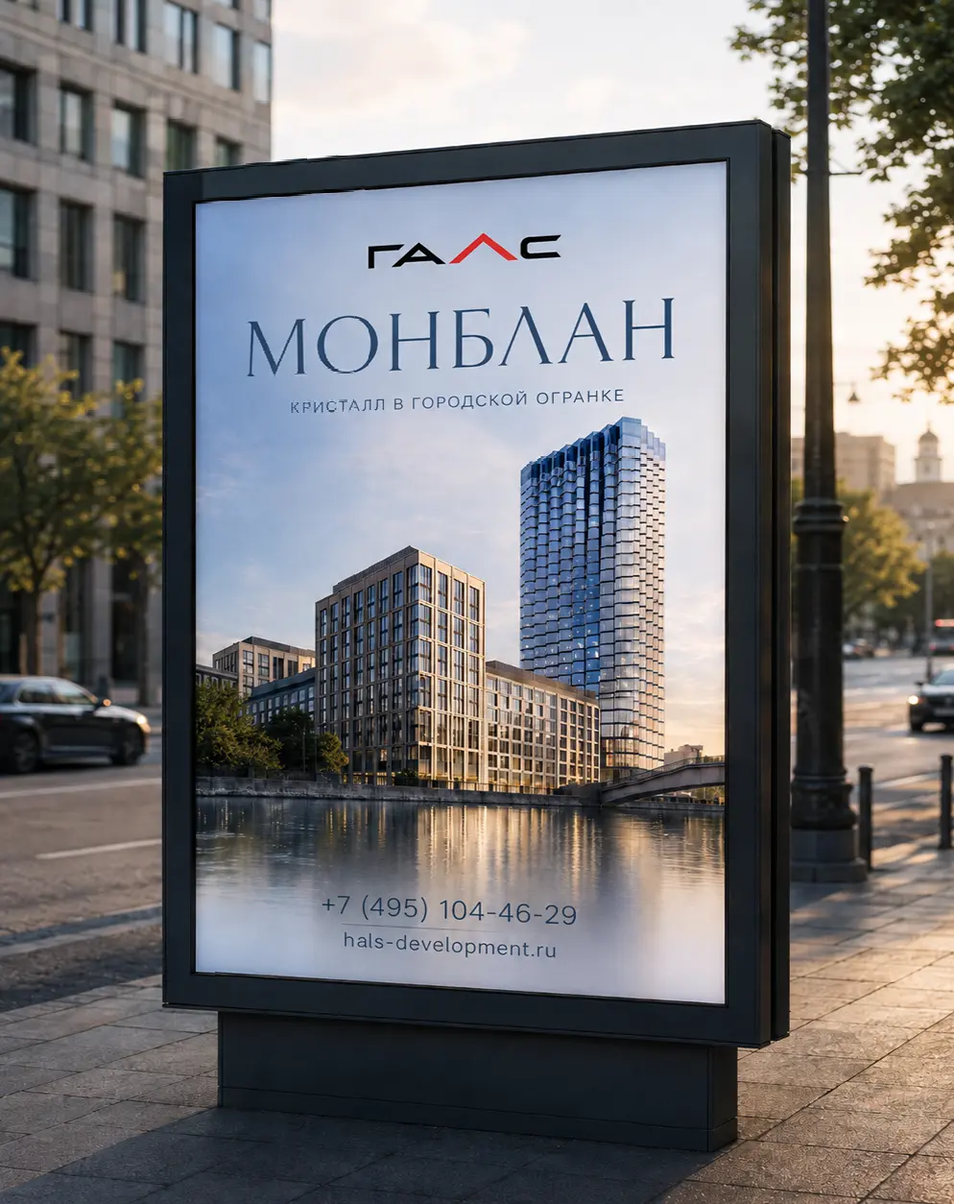
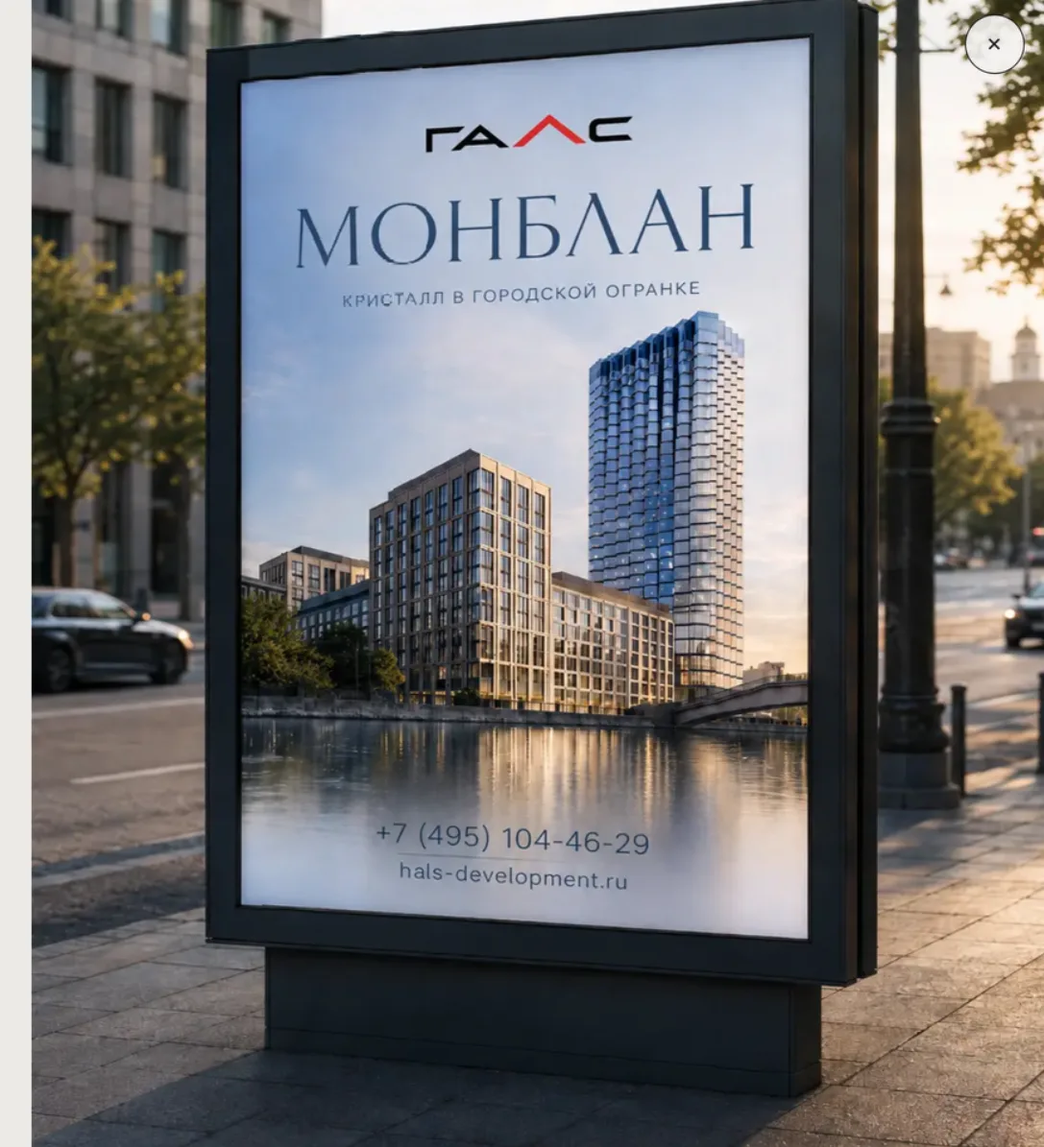
Add files via upload

diff --git a/index.html b/index.html
@@ -369,6 +369,13 @@
       .catalog-title-screen { grid-template-columns:1fr; }
     }
 
+
+    .portal-card button { position:relative; }
+    .portal-card .card-hover { position:absolute; inset:0; opacity:0; }
+    .portal-card:hover .card-base,
+    .portal-card:focus-within .card-base { opacity:0; }
+    .portal-card:hover .card-hover,
+    .portal-card:focus-within .card-hover { opacity:1; }
 </style>
 </head>
 <body>
@@ -377,7 +384,7 @@
 <section aria-label="Вступление" class="hero"><div class="hero-stage"><div class="word-frame active"><h1>СОЗДАЮ <span>ВИЗУАЛЬНЫЕ</span><br/>ИСТОРИИ</h1></div><div class="word-frame"><h1>АРТ-ДИРЕКШН <span>РЕТУШЬ</span><br/>ФОТО</h1></div><div class="word-frame"><h1>ОТ ИДЕИ <span>ДО</span> ОБРАЗА</h1></div><div class="word-frame"><h1>ДИЗАЙН <span>С ХАРАКТЕРОМ</span></h1></div><div class="hero-note"><span>Листайте вниз</span><span>01 — 04</span></div></div></section>
 <section class="statement"><div><div class="label">01 / Подход</div><div aria-hidden="true" class="approach-orbits"><span></span><span></span><span></span></div></div><div><h2>Каждый проект начинается с идеи, а заканчивается образом, который остаётся в памяти.</h2><p>Я соединяю арт-дирекшн, графический дизайн и работу с фотографией,<br/>чтобы визуальная коммуникация выглядела цельно — в журнале, рекламе, digital и пространстве.</p></div></section>
 <section class="projects portfolio-light" id="projects"><div class="projects-head"><div><div class="label">02 / Selected work</div><h2>Works</h2></div><div class="label">Москва · 2020—2026</div></div>
-<div class="portal-grid"><article class="portal-card"><button aria-label="REAL FLAME" class="open-case" data-open-case="realflame-master" type="button"><img alt="Real Flame — айдентика, каталог, упаковка и пространство" decoding="async" loading="lazy" src="rf-merch-cover.webp"/><div class="portal-copy"><span>01 / Brand world</span><h3>REAL FLAME</h3></div></button></article><article class="portal-card"><button aria-label="Development" class="open-case" data-open-case="development" type="button"><img alt="Development — наружная реклама, презентации и коммуникации для девелопмента" decoding="async" loading="lazy" src="development-card-clean.png"/><div class="portal-copy"><span>02 / Development</span><h3>Development</h3></div></button></article><article class="portal-card"><button aria-label="Catalog" class="open-case" data-open-case="catalog" type="button"><img alt="Каталог светильников Lunera" decoding="async" loading="lazy" src="catalog-cover-new.png"/><div class="portal-copy"><span>03 / Editorial</span><h3>Catalog</h3></div></button></article><article class="portal-card"><button aria-label="ВТБ" class="open-case" data-open-case="vtb" type="button"><img alt="Кампания ВТБ. Семейная ипотека" decoding="async" loading="lazy" src="vtb-print-new.png"/><div class="portal-copy"><span>04 / Finance</span><h3>ВТБ</h3></div></button></article><article class="portal-card"><button aria-label="Журналы" class="open-case" data-open-case="editorial" type="button"><img alt="Журнальный и редакционный дизайн" decoding="async" loading="lazy" src="mag-cosmo-cover.png"/><div class="portal-copy"><span>05 / Editorial design</span><h3>Журналы</h3></div></button></article><article class="portal-card"><button aria-label="Газеты" class="open-case" data-open-case="newspapers" type="button"><img alt="Газетная и редакционная вёрстка" decoding="async" loading="lazy" src="newspapers-cover.webp"/><div class="portal-copy"><span>06 / Print design</span><h3>Газеты</h3></div></button></article><article class="portal-card"><button aria-label="Презентации" class="open-case" data-open-case="presentation" type="button"><img alt="Дизайн презентаций" decoding="async" loading="lazy" src="pres-01.webp"/><div class="portal-copy"><span>07 / Presentation design</span><h3>Презентации</h3></div></button></article><article class="portal-card"><button aria-label="Карточки товара" class="open-case" data-open-case="product-cards" type="button"><img alt="Карточки товара и коммерческие макеты" decoding="async" loading="lazy" src="campaign.webp"/><div class="portal-copy"><span>08 / E-commerce</span><h3>Карточки товара</h3></div></button></article><article class="portal-card"><button aria-label="Упаковка" class="open-case" data-open-case="packaging" type="button"><img alt="Дизайн упаковки" decoding="async" loading="lazy" src="rf-packaging.webp"/><div class="portal-copy"><span>09 / Packaging design</span><h3>Упаковка</h3></div></button></article></div>
+<div class="portal-grid"><article class="portal-card"><button aria-label="REAL FLAME" class="open-case" data-open-case="realflame-master" type="button"><img alt="Real Flame — айдентика, каталог, упаковка и пространство" decoding="async" loading="lazy" src="rf-merch-cover.webp"/><div class="portal-copy"><span>01 / Brand world</span><h3>REAL FLAME</h3></div></button></article><article class="portal-card"><button aria-label="Development" class="open-case" data-open-case="development" type="button"><img alt="Development — наружная реклама, презентации и коммуникации для девелопмента" decoding="async" loading="lazy" src="development-card-clean.webp"/><div class="portal-copy"><span>02 / Development</span><h3>Development</h3></div></button></article><article class="portal-card"><button aria-label="Catalog" class="open-case" data-open-case="catalog" type="button"><img alt="Каталог светильников Lunera" class="card-base" decoding="async" loading="lazy" src="catalog-main-2026.webp"/><img alt="Каталог Lunera и разворот" class="card-hover" decoding="async" loading="lazy" src="catalog-hover-2026.webp"/><div class="portal-copy"><span>03 / Editorial</span><h3>Catalog</h3></div></button></article><article class="portal-card"><button aria-label="ВТБ" class="open-case" data-open-case="vtb" type="button"><img alt="Кампания ВТБ. Семейная ипотека" decoding="async" loading="lazy" src="vtb-print-new.webp"/><div class="portal-copy"><span>04 / Finance</span><h3>ВТБ</h3></div></button></article><article class="portal-card"><button aria-label="Журналы" class="open-case" data-open-case="editorial" type="button"><img alt="Журнальный и редакционный дизайн" decoding="async" loading="lazy" src="mag-cosmo-cover.webp"/><div class="portal-copy"><span>05 / Editorial design</span><h3>Журналы</h3></div></button></article><article class="portal-card"><button aria-label="Газеты" class="open-case" data-open-case="newspapers" type="button"><img alt="Газетная полоса Центр+" decoding="async" loading="lazy" src="newspaper-main.webp"/><div class="portal-copy"><span>06 / Print design</span><h3>Газеты</h3></div></button></article><article class="portal-card"><button aria-label="Презентации" class="open-case" data-open-case="presentation" type="button"><img alt="Презентация для Джилекс" decoding="async" loading="lazy" src="presentation-djileks.webp"/><div class="portal-copy"><span>07 / Presentation design</span><h3>Презентации</h3></div></button></article><article class="portal-card"><button aria-label="Карточки товара" class="open-case" data-open-case="product-cards" type="button"><img alt="Карточка товара Minty Home" decoding="async" loading="lazy" src="product-card-minty.webp"/><div class="portal-copy"><span>08 / E-commerce</span><h3>Карточки товара</h3></div></button></article><article class="portal-card"><button aria-label="Упаковка" class="open-case" data-open-case="packaging" type="button"><img alt="Дизайн упаковки" decoding="async" loading="lazy" src="rf-packaging.webp"/><div class="portal-copy"><span>09 / Packaging design</span><h3>Упаковка</h3></div></button></article></div>
 </section>
 <section class="process"><div><div class="label">03 / Возможности</div><h2>От первого референса до готового визуального мира.</h2></div><div class="services"><div class="service"><span>01</span><strong>Арт-дирекшн и визуальные концепции</strong><small>Идея</small></div><div class="service"><span>02</span><strong>Графический и редакционный дизайн</strong><small>Дизайн</small></div><div class="service"><span>03</span><strong>Ретушь и подготовка изображений</strong><small>Постпродакшн</small></div><div class="service"><span>04</span><strong>Фотосъёмка и организация продакшна</strong><small>Фото</small></div></div></section>
 <section class="about" id="about"><img alt="Графическая работа с лабиринтом" decoding="async" loading="lazy" src="about-maze.webp"/><div class="about-copy"><div><div class="label">04 / Обо мне</div><h2>Визуал, у которого есть характер.</h2><p>Я — графический дизайнер, фотограф и ретушер из Москвы. Работала с глянцевыми изданиями, рекламными материалами, брендами и визуализацией пространств.</p><p>Люблю точную композицию, выразительную типографику и решения, которые не становятся «просто красивыми картинками».</p></div><div class="label">Открыта к проектам и сотрудничеству</div></div></section>
@@ -393,39 +400,36 @@
 <div class="mega-end"><h3>Один бренд — единый визуальный мир.</h3><div><span>Real Flame</span><span>Каталог · Мерч · Упаковка · Пространство</span></div></div>
 </section>
 <section aria-label="Development и рекламные кампании" class="case-study mega-case" id="development-case"><button aria-label="Закрыть кейс" class="case-close">×</button>
-<div class="mega-hero"><img alt="Ситиборд Монблан" decoding="async" loading="lazy" src="outdoor-citylight.png"/><div class="mega-hero-copy"><div class="case-number">02 / Advertising systems</div><h2>Development</h2><p>Архитектура, недвижимость и финансовые продукты: визуальные концепции, которые сохраняют характер в наружной рекламе, digital, презентациях и коммуникационных материалах.</p></div></div>
-<div class="story-row light"><div class="story-text"><div class="label">01 / Монблан</div><h3><span class="pink">Архитектура</span> как главный рекламный образ</h3><p>Галс — застройщик и девелопер, который формирует новые городские пространства, соединяя архитектурную выразительность, функциональность и высокий уровень проекта.</p></div><div class="story-media clean-frame paper"><img alt="Ситиборд Монблан" decoding="async" loading="lazy" src="outdoor-citylight.png"/></div></div>
+<div class="mega-hero"><img alt="Ситиборд Монблан" decoding="async" loading="lazy" src="outdoor-citylight.webp"/><div class="mega-hero-copy"><div class="case-number">02 / Advertising systems</div><h2>Development</h2><p>Архитектура, недвижимость и финансовые продукты: визуальные концепции, которые сохраняют характер в наружной рекламе, digital, презентациях и коммуникационных материалах.</p></div></div>
+<div class="story-row light"><div class="story-text"><div class="label">01 / Монблан</div><h3><span class="pink">Архитектура</span> как главный рекламный образ</h3><p>Галс — застройщик и девелопер, который формирует новые городские пространства, соединяя архитектурную выразительность, функциональность и высокий уровень проекта.</p></div><div class="story-media clean-frame paper"><img alt="Ситиборд Монблан" decoding="async" loading="lazy" src="outdoor-citylight.webp"/></div></div>
 <div class="story-row advertising-row"><div class="story-text"><div class="label">02 / KV</div><h3><span class="pink">Рекламные</span> макеты</h3><p>Разработка и адаптация KV (Key Visual) для разных каналов: POS-материалы, полиграфия и digital-баннеры.</p></div><div aria-label="Наведите, чтобы увидеть второй рекламный макет" class="story-media hover-swap editorial-swap clean-frame dark-surface" tabindex="0"><img alt="Рекламные макеты жилого комплекса Монблан" class="hover-base" decoding="async" loading="lazy" src="ad-monblanc-clean.webp"/><img alt="Рекламный макет проекта Адмирал" class="hover-alt" decoding="async" loading="lazy" src="ad-admiral.webp"/></div></div>
-<div class="story-row light dev-prime-row"><div class="story-text"><div class="label">03 / Презентации</div><h3><span class="pink">От планировки</span><span class="line-gap">до инвестиционной истории</span></h3><p>Проект Prime на Динамо получает чёткую информационную архитектуру и премиальную визуальную подачу. Материал выстроен так, чтобы путь от исходных данных до ценности проекта считывался быстро и убедительно.</p></div><div class="story-media clean-frame paper"><img alt="Prime на Динамо" decoding="async" loading="lazy" src="dev-prime-large.png"/></div></div>
+<div class="story-row light dev-prime-row"><div class="story-text"><div class="label">03 / Презентации</div><h3><span class="pink">От планировки</span><span class="line-gap">до инвестиционной истории</span></h3><p>Проект Prime на Динамо получает чёткую информационную архитектуру и премиальную визуальную подачу. Материал выстроен так, чтобы путь от исходных данных до ценности проекта считывался быстро и убедительно.</p></div><div class="story-media clean-frame paper"><img alt="Prime на Динамо" decoding="async" loading="lazy" src="dev-prime-large.webp"/></div></div>
 <div class="story-row"><div class="story-text"><div class="label">04 / Жилые проекты</div><h3><span class="pink">Продукт</span> через атмосферу будущей жизни</h3><p>Коммуникация AFI соединяет архитектурный масштаб, городскую среду и понятные преимущества проекта. На первом экране работает эмоциональный образ, а при наведении раскрываются дополнительные сценарии и разные грани продукта.</p></div><div aria-label="Наведите, чтобы увидеть дополнительные визуалы AFI" class="story-media hover-cycle full-bleed dark-surface afi-cycle" tabindex="0"><img alt="Архитектура будущего — уже сегодня" class="cycle-a" decoding="async" loading="lazy" src="afi-main.webp"/><img alt="AFI Tower" class="cycle-b" decoding="async" loading="lazy" src="afi-hover-01.webp"/><img alt="AFI tower в городской среде" class="cycle-c" decoding="async" loading="lazy" src="afi-hover-02.webp"/></div></div>
 <div class="mega-end"><h3><span class="pink">Архитектура,</span> данные и эмоция в одной системе.</h3><div><span>Development &amp; Advertising</span><span>Outdoor · Digital · Presentations</span></div></div>
 </section>
 <section aria-label="Журнальный дизайн" class="case-study mega-case" id="editorial-case"><button aria-label="Закрыть кейс" class="case-close">×</button>
-<div class="mega-hero"><img alt="Обложка Cosmopolitan" decoding="async" loading="lazy" src="mag-cosmo-cover.png"/><div class="mega-hero-copy"><div class="case-number">05 / Editorial design</div><h2>Журналы</h2><p>Вёрстка глянцевых изданий — это работа с ритмом, типографикой и образом. В этом разделе собраны проекты для Cosmopolitan, Wedding и TopBeauty.</p></div></div>
-<div class="story-row light magazine-pair"><div class="story-text"><div class="label">01 / Cosmopolitan</div><h3><span class="pink">Глянцевая</span> вёрстка для массового журнала</h3><p>Опыт работы с журналом Cosmopolitan научил меня быстро собирать яркую, читаемую и коммерчески точную полосу. Внутри одного номера важно удержать баланс между громкой обложкой, рекламой и редакционным контентом.</p></div><div aria-label="Наведите, чтобы увидеть разворот Cosmopolitan" class="story-media hover-swap clean-frame paper" tabindex="0"><img alt="Обложка Cosmopolitan" class="hover-base" decoding="async" loading="lazy" src="mag-cosmo-cover.png"/><img alt="Разворот Cosmopolitan" class="hover-alt" decoding="async" loading="lazy" src="mag-cosmo-hover.png"/></div></div>
-<div class="story-row magazine-pair"><div class="story-text"><div class="label">02 / Wedding</div><h3><span class="pink">Свадебный</span> журнал как атмосфера и образ</h3><p>Для журнала Wedding я выстраивала мягкий визуальный язык: романтичную типографику, воздушную композицию и съёмки, которые создают ощущение особенного события уже с обложки.</p></div><div aria-label="Наведите, чтобы увидеть альтернативную обложку Wedding" class="story-media hover-swap clean-frame paper" tabindex="0"><img alt="Обложка Wedding" class="hover-base" decoding="async" loading="lazy" src="mag-wedding-cover.png"/><img alt="Альтернативная обложка Wedding" class="hover-alt" decoding="async" loading="lazy" src="mag-wedding-hover.png"/></div></div>
-<div class="story-row light"><div class="story-text"><div class="label">03 / Wedding spreads</div><h3><span class="pink">Развороты</span> журнала Wedding</h3><p>Дальше номер раскрывается через предметные съёмки, вдохновляющие mood-страницы и полноценные editorial-истории. Каждый разворот работает как отдельный кадр, но при этом сохраняет общий стиль номера.</p></div><div class="magazine-spreads"><img alt="Ювелирный разворот Wedding" decoding="async" loading="lazy" src="mag-wedding-spread-01.png"/><img alt="Предметный разворот Wedding" decoding="async" loading="lazy" src="mag-wedding-spread-02.png"/><img alt="Editorial story Wedding" decoding="async" loading="lazy" src="mag-wedding-spread-03.png"/></div></div>
-<div class="story-row magazine-pair"><div class="story-text"><div class="label">04 / TopBeauty</div><h3><span class="pink">Яркая</span> обложка и разворот с характером</h3><p>TopBeauty требует более смелой пластики, насыщенного цвета и активной обложечной типографики. Здесь важна энергия, быстрая считываемость и чувство современной поп-культуры.</p></div><div aria-label="Наведите, чтобы увидеть альтернативную обложку TopBeauty" class="story-media hover-swap clean-frame paper" tabindex="0"><img alt="Обложка TopBeauty" class="hover-base" decoding="async" loading="lazy" src="mag-topbeauty-cover.png"/><img alt="Альтернативная обложка TopBeauty" class="hover-alt" decoding="async" loading="lazy" src="mag-topbeauty-hover.png"/></div></div>
-<div class="story-row light"><div class="story-text"><div class="label">05 / TopBeauty spreads</div><h3><span class="pink">Развороты</span> журнала TopBeauty</h3><p>Развороты продолжают этот ритм: крупные изображения, декоративные акценты и живая вёрстка, которая удерживает внимание и делает материал лёгким для просмотра.</p></div><div class="story-media clean-frame paper magazine-single"><img alt="Разворот TopBeauty" decoding="async" loading="lazy" src="mag-topbeauty-spread-01.png"/></div></div>
-<div class="mega-end"><h3><span class="pink">Журналы</span> как ритм, атмосфера и узнаваемый визуальный голос.</h3><div><span>Cosmopolitan · Wedding · TopBeauty</span><span>Обложки · Развороты · Вёрстка</span></div></div>
+<div class="mega-hero"><img alt="Обложка Cosmopolitan" decoding="async" loading="lazy" src="cosmo-cover-01.webp"/><div class="mega-hero-copy"><div class="case-number">05 / Editorial design</div><h2>Журналы</h2><p>Вёрстка глянцевых изданий — это работа с ритмом, типографикой и образом. В этом разделе собраны проекты для Cosmopolitan, Wedding, TopBeauty и Queen City.</p></div></div>
+<div class="story-row light magazine-pair"><div class="story-text"><div class="label">01 / Cosmopolitan</div><h3><span class="pink">Глянцевая</span> вёрстка для массового журнала</h3><p>Опыт работы с журналом Cosmopolitan научил меня быстро собирать яркую, читаемую и коммерчески точную полосу. Внутри одного номера важно удержать баланс между громкой обложкой, рекламой и редакционным контентом.</p></div><div aria-label="Наведите, чтобы увидеть разворот Cosmopolitan" class="story-media hover-swap clean-frame paper" tabindex="0"><img alt="Обложка Cosmopolitan с Рианной" class="hover-base" decoding="async" loading="lazy" src="cosmo-cover-01.webp"/><img alt="Обложка Cosmopolitan с Айлой Фишер" class="hover-alt" decoding="async" loading="lazy" src="cosmo-hover-01.webp"/></div></div>
+<div class="story-row magazine-pair"><div class="story-text"><div class="label">02 / Wedding</div><h3><span class="pink">Свадебный</span> журнал как атмосфера и образ</h3><p>Для журнала Wedding я выстраивала мягкий визуальный язык: романтичную типографику, воздушную композицию и съёмки, которые создают ощущение особенного события уже с обложки.</p></div><div aria-label="Наведите, чтобы увидеть альтернативную обложку Wedding" class="story-media hover-swap clean-frame paper" tabindex="0"><img alt="Обложка Wedding" class="hover-base" decoding="async" loading="lazy" src="mag-wedding-cover.webp"/><img alt="Альтернативная обложка Wedding" class="hover-alt" decoding="async" loading="lazy" src="mag-wedding-hover.webp"/></div></div>
+<div class="story-row light"><div class="story-text"><div class="label">03 / Wedding spreads</div><h3><span class="pink">Развороты</span> журнала Wedding</h3><p>Дальше номер раскрывается через предметные съёмки, вдохновляющие mood-страницы и полноценные editorial-истории. Каждый разворот работает как отдельный кадр, но при этом сохраняет общий стиль номера.</p></div><div class="magazine-spreads"><img alt="Ювелирный разворот Wedding" decoding="async" loading="lazy" src="mag-wedding-spread-01.webp"/><img alt="Предметный разворот Wedding" decoding="async" loading="lazy" src="mag-wedding-spread-02.webp"/><img alt="Editorial story Wedding" decoding="async" loading="lazy" src="mag-wedding-spread-03.webp"/></div></div>
+<div class="story-row magazine-pair"><div class="story-text"><div class="label">04 / TopBeauty</div><h3><span class="pink">Яркая</span> обложка и разворот с характером</h3><p>TopBeauty требует более смелой пластики, насыщенного цвета и активной обложечной типографики. Здесь важна энергия, быстрая считываемость и чувство современной поп-культуры.</p></div><div aria-label="Наведите, чтобы увидеть альтернативную обложку TopBeauty" class="story-media hover-swap clean-frame paper" tabindex="0"><img alt="Обложка TopBeauty c Ксенией Собчак" class="hover-base" decoding="async" loading="lazy" src="topbeauty-cover-01.webp"/><img alt="Обложка TopBeauty с Глюкозой" class="hover-alt" decoding="async" loading="lazy" src="topbeauty-hover-01.webp"/></div></div>
+<div class="story-row light"><div class="story-text"><div class="label">05 / TopBeauty spreads</div><h3><span class="pink">Развороты</span> журнала TopBeauty</h3><p>Развороты продолжают этот ритм: крупные изображения, декоративные акценты и живая вёрстка, которая удерживает внимание и делает материал лёгким для просмотра.</p></div><div class="story-media clean-frame paper magazine-single"><img alt="Разворот TopBeauty" decoding="async" loading="lazy" src="mag-topbeauty-spread-01.webp"/></div></div>
+<div class="story-row magazine-pair"><div class="story-text"><div class="label">06 / Queen City</div><h3><span class="pink">Глянцевая</span> обложка для городского lifestyle-журнала</h3><p>Queen City работает с более модным и светским тоном: крупный образ, чистая типографика и выразительная цветовая подача. Здесь важно сохранить ощущение журнального лоска и одновременно сделать обложку современной и запоминающейся.</p></div><div aria-label="Наведите, чтобы увидеть вторую обложку Queen City" class="story-media hover-swap clean-frame paper" tabindex="0"><img alt="Обложка Queen City с Линной Лукиной" class="hover-base" decoding="async" loading="lazy" src="queencity-cover-01.webp"/><img alt="Обложка Queen City To-Ma" class="hover-alt" decoding="async" loading="lazy" src="queencity-hover-01.webp"/></div></div><div class="mega-end"><h3><span class="pink">Журналы</span> как ритм, атмосфера и узнаваемый визуальный голос.</h3><div><span>Cosmopolitan · Wedding · TopBeauty · Queen City</span><span>Обложки · Развороты · Вёрстка</span></div></div>
 </section>
 <section aria-label="Кейс ВТБ" class="case-study mega-case vtb-case" id="vtb-case"><button aria-label="Закрыть кейс" class="case-close">×</button>
-<div class="simple-case-hero"><figure><img alt="Кампания ВТБ. Семейная ипотека" decoding="async" loading="lazy" src="vtb-print-new.png"/></figure><div><div class="case-number">04 / Finance communication</div><h2>ВТБ</h2><p>Кампания для банковского продукта с единой визуальной системой: ключевой образ, полиграфия, digital-форматы и оформление офлайн-пространства.</p></div></div>
-<div class="story-row light"><div class="story-text vtb-copy"><div class="label">02 / Print</div><h3><span class="pink">Полиграфия</span></h3><p>Я разработала печатные материалы для кампании семейной ипотеки: буклет, евроконверт и визуальную систему, в которой ключевая ставка, преимущества программы и сценарий обращения считываются сразу.</p><p>Важно было сохранить банковскую строгость, но сделать коммуникацию тёплой и понятной для семейной аудитории. В результате полиграфия поддержала основной образ кампании и усилила доверие к продукту.</p></div><div class="story-media clean-frame paper"><img alt="Полиграфия ВТБ. Семейная ипотека" decoding="async" loading="lazy" src="vtb-print-new.png"/></div></div>
-<div class="case-end"><h3><span class="pink">Понятная</span> финансовая коммуникация, которая работает<br/>в разных форматах.</h3><div><span>ВТБ · Семейная ипотека</span><span>Key visual · Print · Social · Branch</span></div></div>
+<div class="simple-case-hero"><div><div class="case-number">04 / Finance communication</div><h2>ВТБ</h2><p>Кампания для банковского продукта с единой визуальной системой: ключевой образ, полиграфия, digital-форматы и оформление офлайн-пространства.</p></div><figure><img alt="Кампания ВТБ. Семейная ипотека" decoding="async" loading="lazy" src="vtb-print-new.webp"/></figure></div>
+<div class="story-row light"><div class="story-text vtb-copy"><div class="label">02 / Print</div><h3><span class="pink">Полиграфия</span></h3><p>Я разработала печатные материалы для кампании семейной ипотеки: буклет, евроконверт и визуальную систему, в которой ключевая ставка, преимущества программы и сценарий обращения считываются сразу.</p><p>Важно было сохранить банковскую строгость, но сделать коммуникацию тёплой и понятной для семейной аудитории. В результате полиграфия поддержала основной образ кампании и усилила доверие к продукту.</p></div><div class="story-media clean-frame paper"><img alt="Полиграфия ВТБ. Семейная ипотека" decoding="async" loading="lazy" src="vtb-print-new.webp"/></div></div>
 <div class="story-row"><div class="story-text vtb-copy"><div class="label">03 / Social</div><h3><span class="pink">Социальные</span> сети</h3><p>Ключевой визуал был адаптирован для stories и digital-форматов. Я выстроила лаконичную серию экранов, где каждая карточка передаёт одну мысль: выгода, комфорт, простота оформления и понятный следующий шаг.</p><p>Это помогло сохранить узнаваемость кампании в мобильной среде и сделать подачу удобной для быстрого просмотра.</p></div><div class="story-media clean-frame dark-surface"><img alt="Stories для кампании ВТБ" decoding="async" loading="lazy" src="vtb-social.webp"/></div></div>
 <div class="story-row light"><div class="story-text vtb-copy"><div class="label">04 / Branch</div><h3><span class="pink">Оформление</span> отделения</h3><p>Я перенесла коммуникацию в пространство отделения, чтобы рекламная кампания работала не только в наружной рекламе и digital, но и в офлайн-точке контакта с клиентом.</p><p>Так продукт стал заметным внутри интерьера, а вся система коммуникации — цельной и последовательной на каждом носителе.</p></div><div class="story-media clean-frame paper"><img alt="Оформление отделения ВТБ" decoding="async" loading="lazy" src="vtb-office.webp"/></div></div>
-</section><section aria-label="Газетная и редакционная вёрстка" class="case-study simple-case" id="newspapers-case"><button aria-label="Закрыть кейс" class="case-close">×</button>
-<div class="simple-case-hero"><figure><img alt="Газеты Центр+" decoding="async" loading="lazy" src="newspapers-cover.webp"/></figure><div><div class="case-number">06 / Print design</div><h2>Газеты</h2><p>Газетная и редакционная вёрстка с большим объёмом информации, живой рубрикацией и рекламными модулями. Задача — сделать материал удобным для чтения и сохранить динамику полосы.</p></div></div>
-<div class="simple-case-gallery"><figure class="full"><img alt="Газетные полосы и обложка" decoding="async" loading="lazy" src="newspapers-cover.webp"/></figure></div><div class="case-end"><h3>Структура, которая помогает читать, а не мешает.</h3></div>
-</section><section aria-label="Карточки товара и коммерческий дизайн" class="case-study simple-case" id="product-cards-case"><button aria-label="Закрыть кейс" class="case-close">×</button><div class="simple-case-hero"><figure><img alt="Карточки товара и коммерческий дизайн" decoding="async" loading="lazy" src="campaign.webp"/></figure><div><div class="case-number">08 / E-commerce</div><h2>Карточки товара</h2><p>Коммерческие макеты, в которых товар быстро считывается, а преимущества выстроены в понятную визуальную иерархию.</p></div></div><div class="simple-case-gallery"><figure class="full"><img alt="Коммерческий продуктовый коллаж" decoding="async" loading="lazy" src="basskervill.webp"/></figure></div><div class="case-end"><h3>Товар в центре внимания, информация — на своём месте.</h3></div></section><section aria-label="Кейс редизайна каталога" class="case-study catalog-case" id="catalog-case"><button aria-label="Закрыть кейс" class="case-close">×</button>
-<div class="catalog-title-screen"><div class="catalog-title-copy"><div class="catalog-title-meta"><span>03 / Editorial</span><span>Lunera · 2026</span></div><div><h2><span>Каталог</span> как история света</h2><div class="catalog-title-intro"><div class="catalog-title-intro-block"><strong>ЗАДАЧА</strong><p>Разработать современный каталог светильников для интерьерного бренда: не просто перечень товаров, а стильное издание, которое помогает выбрать продукт и показывает его в реальной среде.</p></div><div class="catalog-title-intro-block"><strong>РЕЗУЛЬТАТ</strong><p>Каталог стал полноценным инструментом продаж: он выглядит современно, подчёркивает уровень бренда и помогает клиенту быстрее ориентироваться в ассортименте.</p></div></div></div><div class="catalog-title-meta"><span>Арт-дирекшн · Дизайн · Вёрстка</span><span>Наведите на изображение</span></div></div><figure aria-label="Наведите, чтобы увидеть второй кадр каталога" class="catalog-title-image story-media hover-swap clean-frame paper" tabindex="0"><img alt="Каталог светильников Lunera" class="hover-base" decoding="async" loading="lazy" src="catalog-cover-new.png"/><img alt="Разворот каталога светильников Lunera" class="hover-alt" decoding="async" loading="lazy" src="catalog-hover-new.png"/></figure></div>
+<div class="case-end"><h3><span class="pink">Понятная</span> финансовая коммуникация, которая работает <br/>в разных форматах.</h3><div><span>ВТБ · Семейная ипотека</span><span>Key visual · Print · Social · Branch</span></div></div></section><section aria-label="Газетная и редакционная вёрстка" class="case-study simple-case" id="newspapers-case"><button aria-label="Закрыть кейс" class="case-close">×</button>
+<div class="simple-case-hero"><div><div class="case-number">06 / Print design</div><h2>Газеты</h2><p>Газетная и редакционная вёрстка с большим объёмом информации, живой рубрикацией и рекламными модулями. Задача — сделать материал удобным для чтения и сохранить динамику полосы.</p></div><figure><img alt="Газетная полоса Центр+" decoding="async" loading="lazy" src="newspaper-main.webp"/></figure></div><div class="story-row light"><div class="story-text"><div class="label">02 / Газетная полоса</div><h3><span class="pink">Редакционная</span> подача с живой рубрикацией</h3><p>Внутри рубрики важны ритм, иерархия и понятное распределение акцентов. Я собрала полосу так, чтобы крупный материал, справочные блоки и рекламные модули легко считывались и не спорили между собой.</p><p>При наведении открывается вторая полоса, чтобы показать, как система работает в разных темах и сохраняет узнаваемую редакционную структуру.</p></div><div aria-label="Наведите, чтобы увидеть вторую газетную полосу" class="story-media hover-swap clean-frame paper" tabindex="0"><img alt="Газетная полоса про зимний отдых" class="hover-base" decoding="async" loading="lazy" src="newspaper-main.webp"/><img alt="Газетная полоса про рецепты" class="hover-alt" decoding="async" loading="lazy" src="newspaper-hover.webp"/></div></div><div class="case-end"><h3><span class="pink">Структура</span>, которая помогает читать, а не мешает.</h3><div><span>Газета · Центр+</span><span>Вёрстка · Рубрикация · Полосы</span></div></div></section><section aria-label="Карточки товара и коммерческий дизайн" class="case-study simple-case" id="product-cards-case"><button aria-label="Закрыть кейс" class="case-close">×</button><div class="simple-case-hero"><div><div class="case-number">08 / E-commerce</div><h2>Карточки товара</h2><p>Коммерческие макеты, в которых товар быстро считывается, а преимущества выстроены в понятную визуальную иерархию. Важно показать продукт привлекательно и сразу донести, почему его стоит выбрать.</p></div><figure><img alt="Карточка товара Minty Home" decoding="async" loading="lazy" src="product-card-minty.webp"/></figure></div><div class="story-row light"><div class="story-text"><div class="label">02 / Marketplace card</div><h3><span class="pink">Товар</span> в центре внимания</h3><p>В этой карточке я собрала понятную композицию: крупный продукт, ключевые преимущества, подарок в комплекте и упаковку как подтверждение товарного сценария. Такой формат помогает быстро удержать внимание и повысить доверие к покупке.</p></div><div class="story-media clean-frame paper"><img alt="Карточка товара сковороды Minty Home" decoding="async" loading="lazy" src="product-card-minty.webp"/></div></div><div class="case-end"><h3><span class="pink">Товар</span> в центре внимания, информация — на своём месте.</h3><div><span>Карточка товара · Minty Home</span><span>E-commerce · Marketplace · Дизайн</span></div></div></section><section aria-label="Кейс редизайна каталога" class="case-study catalog-case" id="catalog-case"><button aria-label="Закрыть кейс" class="case-close">×</button>
+<div class="catalog-title-screen"><div class="catalog-title-copy"><div class="catalog-title-meta"><span>03 / Editorial</span><span>Lunera · 2026</span></div><div><h2><span>Каталог</span> как история света</h2><div class="catalog-title-intro"><div class="catalog-title-intro-block"><strong>ЗАДАЧА</strong><p>Разработать современный каталог светильников для интерьерного бренда: не просто перечень товаров, а стильное издание, которое помогает выбрать продукт и показывает его в реальной среде.</p></div><div class="catalog-title-intro-block"><strong>РЕЗУЛЬТАТ</strong><p>Каталог стал полноценным инструментом продаж: он выглядит современно, подчёркивает уровень бренда и помогает клиенту быстрее ориентироваться в ассортименте.</p></div></div></div><div class="catalog-title-meta"><span>Арт-дирекшн · Дизайн · Вёрстка</span><span>Наведите на изображение</span></div></div><figure aria-label="Наведите, чтобы увидеть второй кадр каталога" class="catalog-title-image story-media hover-swap clean-frame paper" tabindex="0"><img alt="Каталог Lunera. Обложка и разворот" class="hover-base" decoding="async" loading="lazy" src="catalog-main-2026.webp"/><img alt="Каталог Lunera с разворотом Perla" class="hover-alt" decoding="async" loading="lazy" src="catalog-hover-2026.webp"/></figure></div>
 <div class="case-end"><h3><span class="pink">Каталог</span> становится не просто перечнем товаров,<br/>а визуальной историей бренда.</h3><div><span>Lunera · Editorial</span><span>Каталог · Вёрстка · Арт-дирекшн</span></div></div>
 <div class="story-row light catalog-wilding"><div class="story-text"><div class="label">03 / Wilding</div><h3><span class="pink">Каталоги</span> Wilding</h3><p>В этой рубрике собраны каталоги, созданные для журнала Wilding — пространства, где каждый бренд раскрывается через свет, форму и настроение.</p><p>Каждый рекламодатель представил здесь свою историю: через образы, детали и визуальный язык, который говорит больше, чем слова.</p><p>Это не просто подборка — это галерея идей, характеров и эстетики, объединённых общим чувством света и вниманием к форме.</p></div><div aria-label="Наведите, чтобы увидеть развороты Wilding" class="story-media hover-cycle full-bleed paper" tabindex="0"><img alt="Каталог Wilding" class="cycle-a" decoding="async" loading="lazy" src="wilding-cover.webp"/><img alt="Разворот Wilding Grand Hotel Tremezzo" class="cycle-b" decoding="async" loading="lazy" src="wilding-spread-01.webp"/><img alt="Разворот Wilding Dukley и Falkensteiner" class="cycle-c" decoding="async" loading="lazy" src="wilding-spread-02.webp"/></div></div>
 </section>
 <section aria-label="Кейс Real Flame для выставки MosBuild" class="case-study mosbuild-case" id="mosbuild-case"><button aria-label="Закрыть кейс" class="case-close">×</button><div class="mosbuild-cover"><div><div class="case-number">01 / Exhibition communication</div><h2>Real Flame <span>× MosBuild</span></h2><p>Разработка мерча и полиграфии для выставки: единая визуальная подача, адаптация фирменного стиля и современное оформление брендированных носителей.</p></div><figure><img alt="Рекламные лифлеты Real Flame для MosBuild" decoding="async" loading="lazy" src="mosbuild-01.webp"/></figure></div><div class="mosbuild-story"><div class="label">02 / Задача и решение</div><div><h3>Полиграфия как продолжение выставочного стенда</h3><p>Моей задачей была разработка рекламных лифлетов для партнёров и клиентов выставки MosBuild.</p><p>Я продолжила визуальный язык стенда в полиграфии: использовала контрастную типографику, яркие цвета и графические элементы выставочной концепции.</p><p>В результате лифлеты стали частью единой коммуникации бренда. Они поддерживали оформление стенда, привлекали внимание посетителей и помогали понятно представить партнёрскую программу Real Flame.</p></div></div><div class="mosbuild-visual"><img alt="Лифлет для дизайнеров и оформление стенда Real Flame" decoding="async" loading="lazy" src="mosbuild-02.webp"/></div><div class="case-end"><h3>Один визуальный язык — от стенда до печатного носителя.</h3><div><span>Real Flame · MosBuild</span><span>Полиграфия · Арт-дирекшн</span></div></div></section>
 <section aria-label="Кейс мерча Real Flame" class="case-study simple-case" id="merch-case"><button aria-label="Закрыть кейс" class="case-close">×</button><div class="simple-case-hero"><figure><img alt="Шоппер и бутылка Real Flame" decoding="async" loading="lazy" src="rf-merch-cover.webp"/></figure><div><div class="case-number">01 / Branded merchandise</div><h2>Разработка мерча и полиграфии для выставки MosBuild</h2><p>Шоппер, бутылка, листовки и другие брендированные носители для компании Real Flame. Единая визуальная подача, адаптация фирменного стиля и современное оформление для выставочного пространства.</p></div></div><div class="simple-case-gallery"><figure><img alt="Шоппер Real Flame" decoding="async" loading="lazy" src="rf-merch-tote.webp"/></figure><figure><img alt="Бутылка Real Flame" decoding="async" loading="lazy" src="rf-merch-bottle.webp"/></figure></div><div class="case-end"><h3>Бренд, который выходит в пространство.</h3><div><span>Real Flame · MosBuild</span><span>Мерч · Полиграфия</span></div></div></section>
-<section aria-label="Кейс презентации Real Flame" class="case-study simple-case" id="presentation-case"><button aria-label="Закрыть кейс" class="case-close">×</button><div class="simple-case-hero"><figure><img alt="Главный кадр презентации Real Flame" decoding="async" loading="lazy" src="pres-01.webp"/></figure><div><div class="case-number">01 / Brand presentation</div><h2>Презентация Real Flame</h2><p>Структурированная визуальная подача бренда: продукт, преимущества и интерьерные решения собраны в одну последовательную коммуникацию.</p></div></div><div class="case-spread"><div class="label">02 / Система слайдов</div><img alt="Слайды презентации Real Flame" decoding="async" loading="lazy" src="rf-presentation.webp"/></div><div class="simple-case-gallery"><figure class="full"><img alt="Дополнительные слайды презентации" decoding="async" loading="lazy" src="pres-02.webp"/></figure></div><div class="case-end"><h3>Сложная информация — в ясной визуальной системе.</h3><div><span>Презентация · Real Flame</span><span>Дизайн · Коммуникация</span></div></div></section>
+<section aria-label="Кейс презентаций" class="case-study simple-case" id="presentation-case"><button aria-label="Закрыть кейс" class="case-close">×</button><div class="simple-case-hero"><div><div class="case-number">01 / Brand presentation</div><h2>Презентации</h2><p>Разные форматы презентационного дизайна: от продуктовой подачи и инфографики до структурированной визуальной системы для брендов и компаний.</p></div><figure><img alt="Презентация для компании Джилекс" decoding="async" loading="lazy" src="presentation-djileks.webp"/></figure></div><div class="case-spread"><div class="label">02 / Система слайдов</div><img alt="Слайды презентации Real Flame" decoding="async" loading="lazy" src="rf-presentation.webp"/></div><div class="simple-case-gallery"><figure class="full"><img alt="Дополнительные слайды презентации" decoding="async" loading="lazy" src="pres-02.webp"/></figure></div><div class="case-end"><h3><span class="pink">Презентации · Корпоративные и продуктовые</span> информация — в ясной визуальной системе.</h3><div><span>Дизайн · Структура · Визуализация</span><span>Дизайн · Коммуникация</span></div></div></section>
 <section aria-label="Кейс упаковки Real Flame" class="case-study simple-case" id="packaging-case"><button aria-label="Закрыть кейс" class="case-close">×</button><div class="simple-case-hero"><figure><img alt="Упаковка электроочага Real Flame" decoding="async" loading="lazy" src="rf-packaging.webp"/></figure><div><div class="case-number">01 / Product packaging</div><h2>Разработка упаковки для электроочагов Real Flame</h2><p>Я разработала дизайн упаковки для линейки электроочагов Real Flame. Задача заключалась в том, чтобы создать единый визуальный принцип, который можно адаптировать под разные модели и технические характеристики.</p></div></div><div class="simple-case-gallery"><figure class="full"><img alt="Разработка системы упаковки Real Flame" decoding="async" loading="lazy" src="pack-dev-02.webp"/></figure></div><div class="case-end"><h3>Единая система для разных моделей продукта.</h3><div><span>Real Flame · Packaging</span><span>Дизайн · Вёрстка</span></div></div></section>
 <section aria-label="Кейс Real Flame" class="case-study realflame-case" id="realflame-case"><button aria-label="Закрыть кейс" class="case-close">×</button><div class="case-shelf"><div aria-hidden="true" class="case-geometry"></div><div class="case-meta"><div class="case-number">01 / Interior visualization</div><h2>Real<br/>Flame</h2><p>Концепция и визуализация фирменного магазина каминов: от обмерного плана и расстановки мебели до финального образа пространства.</p></div><div class="shelf-object"><img alt="Финальная визуализация магазина Real Flame" decoding="async" loading="lazy" src="realflame-03.webp"/></div></div><div class="case-intro"><h3>От геометрии плана к живому пространству</h3><div class="case-copy"><div><strong>Задача</strong><p>Организовать сложное помещение, сохранить свободную навигацию и сделать камины центральными объектами экспозиции.</p></div><div><strong>Решение</strong><p>Строгая модульная расстановка, контраст тёмных экспозиционных зон и светлого периметра, тёплый свет как главный эмоциональный акцент.</p></div></div></div><div class="case-spread"><div class="label">02 / Финальный вид · пространство и свет</div><img alt="Готовая визуализация Real Flame" decoding="async" loading="lazy" src="realflame-03.webp"/></div><div class="case-gallery"><figure><img alt="Черновая 3D-схема Real Flame" decoding="async" loading="lazy" src="realflame-02.webp"/></figure><figure><img alt="Планировка магазина Real Flame" decoding="async" loading="lazy" src="realflame-01.webp"/></figure><figure class="full"><img alt="Обмерный план Real Flame" decoding="async" loading="lazy" src="realflame-plan-01.webp"/></figure><figure><img alt="План осветительных центров" decoding="async" loading="lazy" src="realflame-plan-02.webp"/></figure><figure><img alt="План расстановки мебели" decoding="async" loading="lazy" src="realflame-plan-03.webp"/></figure></div><div class="case-end"><h3>Пространство, построенное вокруг огня.</h3><div><span>Планировка · Визуализация · Интерьер</span><span>Real Flame</span></div></div></section>
 <section aria-label="Кейс журнального дизайна" class="case-study" id="magazine-case"><button aria-label="Закрыть кейс" class="case-close">×</button><div class="case-shelf"><div aria-hidden="true" class="case-geometry"></div><div class="case-meta"><div class="case-number">01 / Editorial design</div><h2>Красота<br/>и здоровье</h2><p>Дизайн и вёрстка журнала. Работа с обложкой, рубрикатором, типографикой, рекламными материалами и визуальным ритмом номера.</p></div><div class="shelf-object"><img alt="Журнал на полке" decoding="async" loading="lazy" src="magazine.webp"/></div></div><div class="case-intro"><h3>Журнал как визуальная система</h3><div class="case-copy"><div><strong>Задача</strong><p>Собрать современное женское издание, в котором редакционные материалы, beauty-съёмка и коммерческие полосы выглядят частью одного мира.</p></div><div><strong>Идея</strong><p>Контраст строгой модульной сетки и живого журнального изображения. Геометрия удерживает структуру, а фотография создаёт эмоцию.</p></div></div></div><div class="case-spread"><div class="label">02 / Разворот · Editorial rhythm</div><img alt="Разворот журнала на чёрном фоне" decoding="async" loading="lazy" src="case-magazine-01.webp"/></div><div class="case-gallery"><figure><img alt="Редакционный разворот" decoding="async" loading="lazy" src="case-magazine-02.webp"/></figure><figure><img alt="Редакционный разворот" decoding="async" loading="lazy" src="case-magazine-03.webp"/></figure><figure class="full"><img alt="Разворот журнала целиком" decoding="async" loading="lazy" src="case-magazine-04.webp"/></figure><figure><img alt="Обложка журнала" decoding="async" loading="lazy" src="case-magazine-05.webp"/></figure><figure><img alt="Редакционная полоса" decoding="async" loading="lazy" src="case-magazine-06.webp"/></figure></div><div class="case-end"><h3>Дизайн, который хочется листать.</h3><div><span>Арт-дирекшн · Вёрстка · Ретушь</span><span>Следующий проект →</span></div></div></section>
